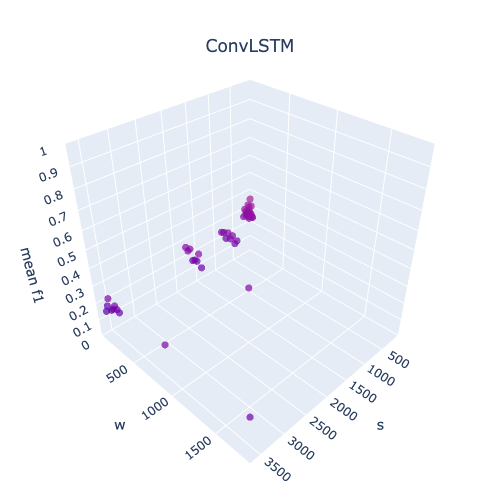
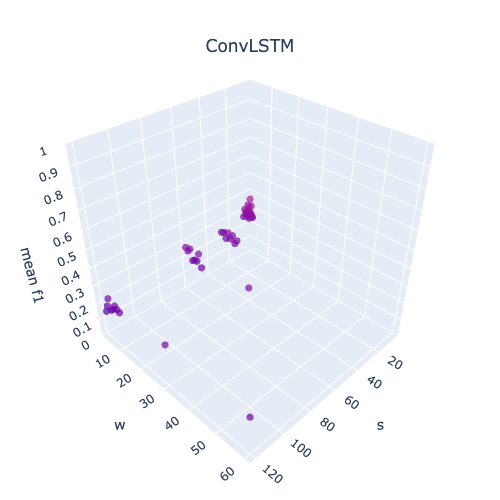
Revising readme

diff --git a/benchmark/plot_recurrent_benchmarks(s4).py b/benchmark/plot_recurrent_benchmarks(s4).py
@@ -26,8 +26,8 @@ for dataset in datasets:
         sr = problems[dataset]['sample_rate']
         segments_times = data_ds.segments_time.to_numpy()
         decision_times = data_ds.decision_time.to_numpy()
-        data_ds["w"] = np.array([string_seconds(segments_times[j]) * sr for j in range(len(segments_times))])
-        data_ds["s"] = np.array([string_seconds(decision_times[j]) * sr for j in range(len(decision_times))])
+        data_ds["w"] = np.array([string_seconds(segments_times[j]) for j in range(len(segments_times))])
+        data_ds["s"] = np.array([string_seconds(decision_times[j]) for j in range(len(decision_times))])
 
         if data_ds.shape[0] == 0:
             continue
